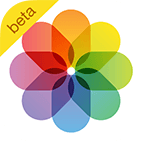
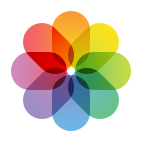
增加了 Find Friends 应用，去除了 beta 角标

diff --git a/app/popup.html b/app/popup.html
@@ -53,15 +53,6 @@
                 <span class="btn-text" id="i18n-iclouddrive"></span>
             </div>
         </a>
-        <a target="_blank" href="https://www.icloud.com/#find" class="app-btn">
-            <div class="btn-icon-container">
-                <div class="btn-border"></div>
-                <img src="src/img/find_icon.png" alt="Find My iPhone">
-            </div>
-            <div class="btn-text-container">
-                <span class="btn-text" id="i18n-find"></span>
-            </div>
-        </a>
         <a target="_blank" href="https://www.icloud.com/#notes" class="app-btn">
             <div class="btn-icon-container">
                 <div class="btn-border"></div>
@@ -107,6 +98,24 @@
                 <span class="btn-text" id="i18n-keynote"></span>
             </div>
         </a>
+        <a target="_blank" href="https://www.icloud.com/#fmf" class="app-btn">
+            <div class="btn-icon-container">
+                <div class="btn-border"></div>
+                <img src="src/img/fmf_icon.png" alt="Find My iPhone">
+            </div>
+            <div class="btn-text-container">
+                <span class="btn-text" id="i18n-fmf"></span>
+            </div>
+        </a>
+        <a target="_blank" href="https://www.icloud.com/#find" class="app-btn">
+            <div class="btn-icon-container">
+                <div class="btn-border"></div>
+                <img src="src/img/find_icon.png" alt="Find My iPhone">
+            </div>
+            <div class="btn-text-container">
+                <span class="btn-text" id="i18n-find"></span>
+            </div>
+        </a>
         <a target="_blank" href="https://www.icloud.com/#settings" class="app-btn">
             <div class="btn-icon-container">
                 <div class="btn-border"></div>
@@ -116,17 +125,15 @@
                 <span class="btn-text" id="i18n-settings"></span>
             </div>
         </a>
-        <!--
         <a target="_blank" href="https://www.icloud.com" class="app-btn">
             <div class="btn-icon-container">
                 <div class="btn-border"></div>
                 <img src="src/img/home_icon.png" alt="Home">
             </div>
-            <div class="btn-text-container" style="width:58px;left:8px;">
+            <div class="btn-text-container">
                 <span class="btn-text" id="i18n-home"></span>
             </div>
         </a>
-        -->
     </div>
     <script type="text/javascript" src="src/popup.js"></script>
 </body>

diff --git a/app/src/css/style.css b/app/src/css/style.css
@@ -25,7 +25,7 @@ a, a:hover {
  * global style
  */
 #container {
-    width: 600px;
+    width: 695px;
     padding: 30px 0 0 30px;
     margin: 5px;
     border: 1px solid #e6e6e6;
@@ -83,7 +83,7 @@ a, a:hover {
 
 .btn-text-container {
     text-align: center;
-    margin: 5px 0 20px;
+    margin: 3px 0 15px;
     height: 28px;
     display: flex;
     justify-content: center;

diff --git a/app/src/popup.js b/app/src/popup.js
@@ -31,7 +31,8 @@
         'numbers',
         'keynote',
         'settings',
-        'home'
+        'home',
+        'fmf'
     ];
 
     /**

diff --git a/README.md b/README.md
@@ -2,17 +2,18 @@
 
 ## 简介
 
-适用于Chrome浏览器，快速登录iCloud应用的Launchpad
+适用于 Chrome 浏览器，快速登录 iCloud 应用的 Launchpad
 
 ## 更新历史
 
-- 2.0.1 修改样式小问题
+- 2.1 增加 Find Friends 应用，去除了 beta 角标 [2015-10-30]
+- 2.0.1 修改样式小问题 [2015-08-05]
 - 2.0 国际化，支持11种语言：英、法、德、意、俄、荷、西、日、韩、简中、繁中 [2015-08-05]
-- 1.6.1 图片链接bug修复 [2015-03-11]
-- 1.6 增加photos图标 [2015-03-11]
-- 1.5 增加iCloud drive和Settings图标 [2014-09-28]
-- 1.4 日历app支持视网膜屏 [2014-01-23]
-- 1.3 图标按钮支持视网膜屏 [2014-01-19]
+- 1.6.1 图片链接 bug 修复 [2015-03-11]
+- 1.6 增加 photos 应用 [2015-03-11]
+- 1.5 增加 iCloud drive 和 Settings 应用 [2014-09-28]
+- 1.4 日历 app 适配视网膜屏 [2014-01-23]
+- 1.3 所有图标按钮适配视网膜屏 [2014-01-19]
 - 1.2 代码优化 [2013-10-28]
 - 1.1 代码优化 [2013-10-28]
 - 1.0 新版本发布 [2013-10-27]
